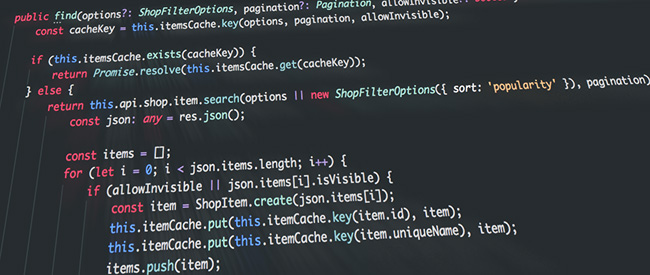
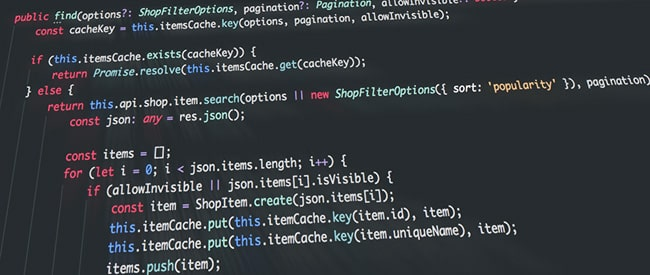
sitemap, compress images

diff --git a/common/layout/Layout.js b/common/layout/Layout.js
@@ -11,9 +11,9 @@ export default function Layout(props) {
         <meta property="og:title" content="Jonas Siltamäki Håkansson" />
         <meta name="description" property="description" content="My portfolio of personal and professional projects that I've worked on." />
         <meta property="og:description" content="My portfolio of personal and professional projects that I've worked on." />
-        <meta property="og:image" content="https://jshakansson.se/assets/jshakansson-150.png" />
-        <meta property="og:image:url" content="https://jshakansson.se/assets/jshakansson-150.png" />
-        <meta property="og:image:secure_url" content="https://jshakansson.se/assets/jshakansson-150.png" />
+        <meta property="og:image" content="https://jshakansson.se/assets/jshakansson-150-min.png" />
+        <meta property="og:image:url" content="https://jshakansson.se/assets/jshakansson-150-min.png" />
+        <meta property="og:image:secure_url" content="https://jshakansson.se/assets/jshakansson-150-min.png" />
         <meta property="og:image:type" content="image/png" />
         <meta property="og:image:alt" content="Jonas Portfolio logo" />
         <meta property="og:type" content="website" />

diff --git a/common/components/CvContact.js b/common/components/CvContact.js
@@ -4,7 +4,7 @@ export default function CvContact() {
   return (
     <div className={styles.cvContact}>
       <div className={styles.profilePicture}>
-          <img src="/jonas1.jpg" alt="Jonas Siltamäki Håkansson" />
+          <img src="/jonas-min.jpg" alt="Jonas Siltamäki Håkansson" />
       </div>
       <div className={styles.contact}>
           <h4>Contact</h4>

diff --git a/common/components/Logo.js b/common/components/Logo.js
@@ -4,7 +4,7 @@ import styles from './Logo.module.scss';
 export default function Logo() {
   return (
     <div class={styles.logo}>
-      <Link href="/"><a><img src="/jshakansson-650.png" alt="Jonas portfolio logo" /></a></Link>        
+      <Link href="/"><a><img src="/jshakansson-650-min.png" alt="Jonas portfolio logo" /></a></Link>        
     </div>
   );
 }

diff --git a/common/portfolio-items.js b/common/portfolio-items.js
@@ -338,7 +338,7 @@ export const portfolioItems = [
         itemLogo: null,
         showNameNextToLogo: true,
         companies: [
-            { name: 'Personal', mediaUrl: '/jshakansson-650.png' }
+            { name: 'Personal', mediaUrl: '/jshakansson-650-min.png' }
         ]
     }
 ];
